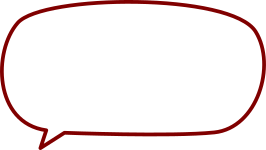
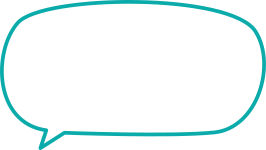
Alteradas cores do tutorial

Changed region(s): [[0.0, 0.0, 1.0, 1.0]]

diff --git a/src/controls/CodeEditor.ts b/src/controls/CodeEditor.ts
@@ -53,8 +53,8 @@ export default class CodeEditor {
         new ToolboxRowOrganizer(this.grid, 20, 2, 2, 2, ['arrow-up',]),
         new ToolboxRowOrganizer(this.grid, 17, 3, 8, 2, ['arrow-left', 'arrow-right']),
         new ToolboxRowOrganizer(this.grid, 20, 3.7, 2, 2, ['arrow-down']),
-        new ToolboxRowOrganizer(this.grid, 18, 5.4, 6, 2, ['if_coin', 'if_block'], 1.1),
-        new ToolboxRowOrganizer(this.grid, 18, 7.4, 6, 2, ['prog_0', 'prog_1', 'prog_2'], 1.1),
+        new ToolboxRowOrganizer(this.grid, 18, 5.4, 6, 2, ['prog_0', 'prog_1', 'prog_2'], 1.1),
+        new ToolboxRowOrganizer(this.grid, 18, 7.4, 6, 2, ['if_coin', 'if_block'], 1.1),
       ]
 
     this.createDraggableProgramCommands();

diff --git a/src/phases/MazeConfigs.ts b/src/phases/MazeConfigs.ts
@@ -157,7 +157,7 @@ export default class MazeConfigs {
 
         let showTutorial = true;
 
-        this.phases.push(this.createHardPhaseIfCoinAndIfBlock(showTutorial));
+        //this.phases.push(this.createHardPhaseIfCoinAndIfBlock(showTutorial));
         //this.phases.push(this.createPhaseCallRecursiveFunction());
         //this.phases.push(this.createPhaseHardIfCoinAndIfBlock(showTutorial));
         //this.phases.push(this.createPhaseHardIfCoinAndIfBlock());

diff --git a/src/phases/TutorialHighlight.ts b/src/phases/TutorialHighlight.ts
@@ -254,8 +254,8 @@ export default class TutorialHighlight {
         }
 
         if (sprite.body) {
-            //const speed = 160;
-            const speed = 100;
+            const speed = 160;
+            //const speed = 100;
             this.scene.physics.moveTo(sprite, x, y, speed * this.grid.scale);
         }
         if (!this.intervalWatchDragMove) {

diff --git a/src/sprites/Ballon.ts b/src/sprites/Ballon.ts
@@ -21,7 +21,7 @@ export default class Ballon {
             .setFontStyle('bold')
             .setAlign('center')
             .setDepth(1001)
-            .setTint(0x810101);
+            .setTint(0x00a7a7);
 
     }
 
